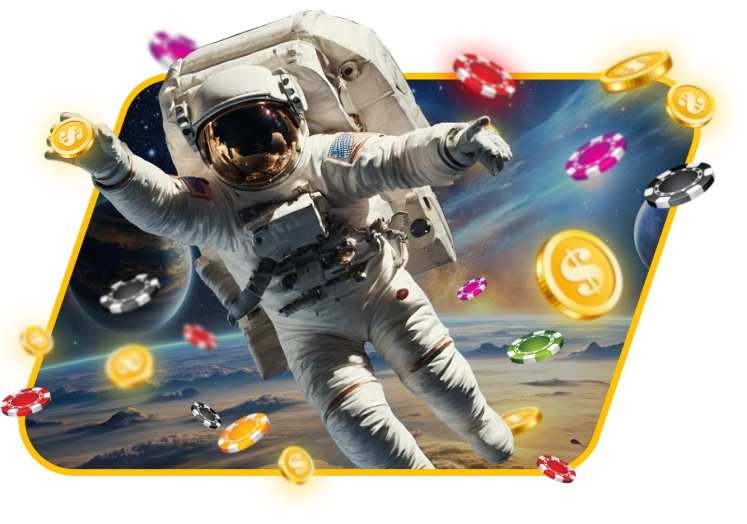
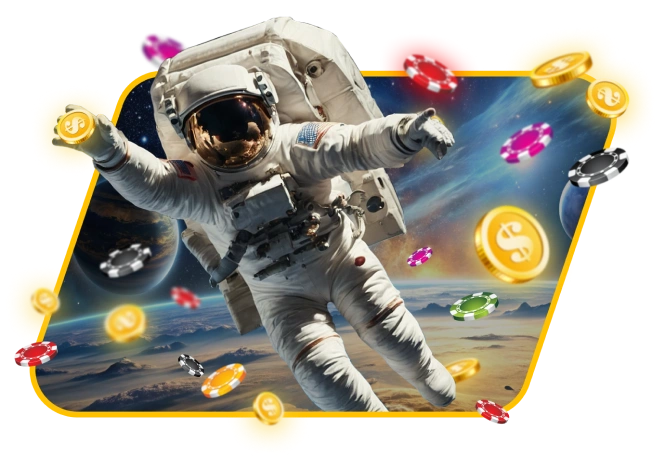
fix: welcome section

diff --git a/src/components/welcome/WelcomeSection.module.scss b/src/components/welcome/WelcomeSection.module.scss
@@ -7,8 +7,8 @@
   background: $color-background;
   background-image: url("/block-images/welcome.webp");
   background-repeat: no-repeat;
-  // background-size: 50% auto;
-  background-position: right 53px top -4px;
+  background-size: 54% auto;
+  background-position: right 40px top -13px;
   width: 100%;
   height: 524px;
   max-width: 90rem;
@@ -44,9 +44,9 @@
     background-size: auto 63%;
   }
 
-  @media (max-width: 420px) {
+  @media (max-width: 450px) {
     margin: 0 auto 72px auto;
-    background-size: auto 60%;
+    background-size: auto 50%;
     padding-top: 12.35rem;
   }
 }
@@ -111,9 +111,10 @@
   font-style: normal;
   font-weight: 900;
   text-shadow: 0px 4px 4px rgba(0, 0, 0, 0.25);
-  line-height: normal;
+  line-height: 76px;
   text-transform: uppercase;
   color: $text-color-secondary;
+  letter-spacing: 2px;
 
   // background: linear-gradient($text-color-secondary-gradient);
   // background-clip: text;

diff --git a/src/components/bonus-details/BonusDetailsSection.scss b/src/components/bonus-details/BonusDetailsSection.scss
@@ -168,7 +168,7 @@
   text-align: left;
   padding: 8px 10px 8px 16px;
   position: relative;
-  border-bottom: 1px solid rgba(0, 0, 0, 0.2);
+  border-bottom: 1px solid rgba(253, 252, 252, 0.4);
 
   &::after {
     content: "";
@@ -225,6 +225,18 @@
 
   @media (max-width: 300px) {
     padding: 0;
+  }
+}
+
+.accordion-title {
+  &::after {
+    content: "";
+    position: absolute;
+    right: 0;
+    top: 15%;
+    height: 70%;
+    width: 1px;
+    background-color: rgba(253, 252, 252, 0.4);
   }
 }
 

diff --git a/src/app/globals.scss b/src/app/globals.scss
@@ -70,7 +70,7 @@ body {
 
   @media (max-width: 768px) {
     font-size: 32px;
-    font-weight: 900;
+    font-weight: 700;
   }
 
   @media (max-width: 570px) {
@@ -92,7 +92,7 @@ body {
 
   @media (max-width: 768px) {
     font-size: 24px;
-    font-weight: 900;
+    font-weight: 700;
   }
 
   @media (max-width: 570px) {

diff --git a/src/components/__common__/button/Button.scss b/src/components/__common__/button/Button.scss
@@ -48,7 +48,7 @@
   &.secondary {
     outline: 3px solid;
     outline-offset: -3px;
-    padding: 2px 18px;
+    padding: 2px 8px;
     outline-color: #2e2e2e3b;
     background: $color-button-small;
     color: #fff;

diff --git a/src/components/footer/Footer.module.scss b/src/components/footer/Footer.module.scss
@@ -40,7 +40,7 @@
             left: 160px;
             cursor: pointer;
 
-            @media (max-width: 1320px) {
+            @media (max-width: 1340px) {
               left: 50px;
             }
 
